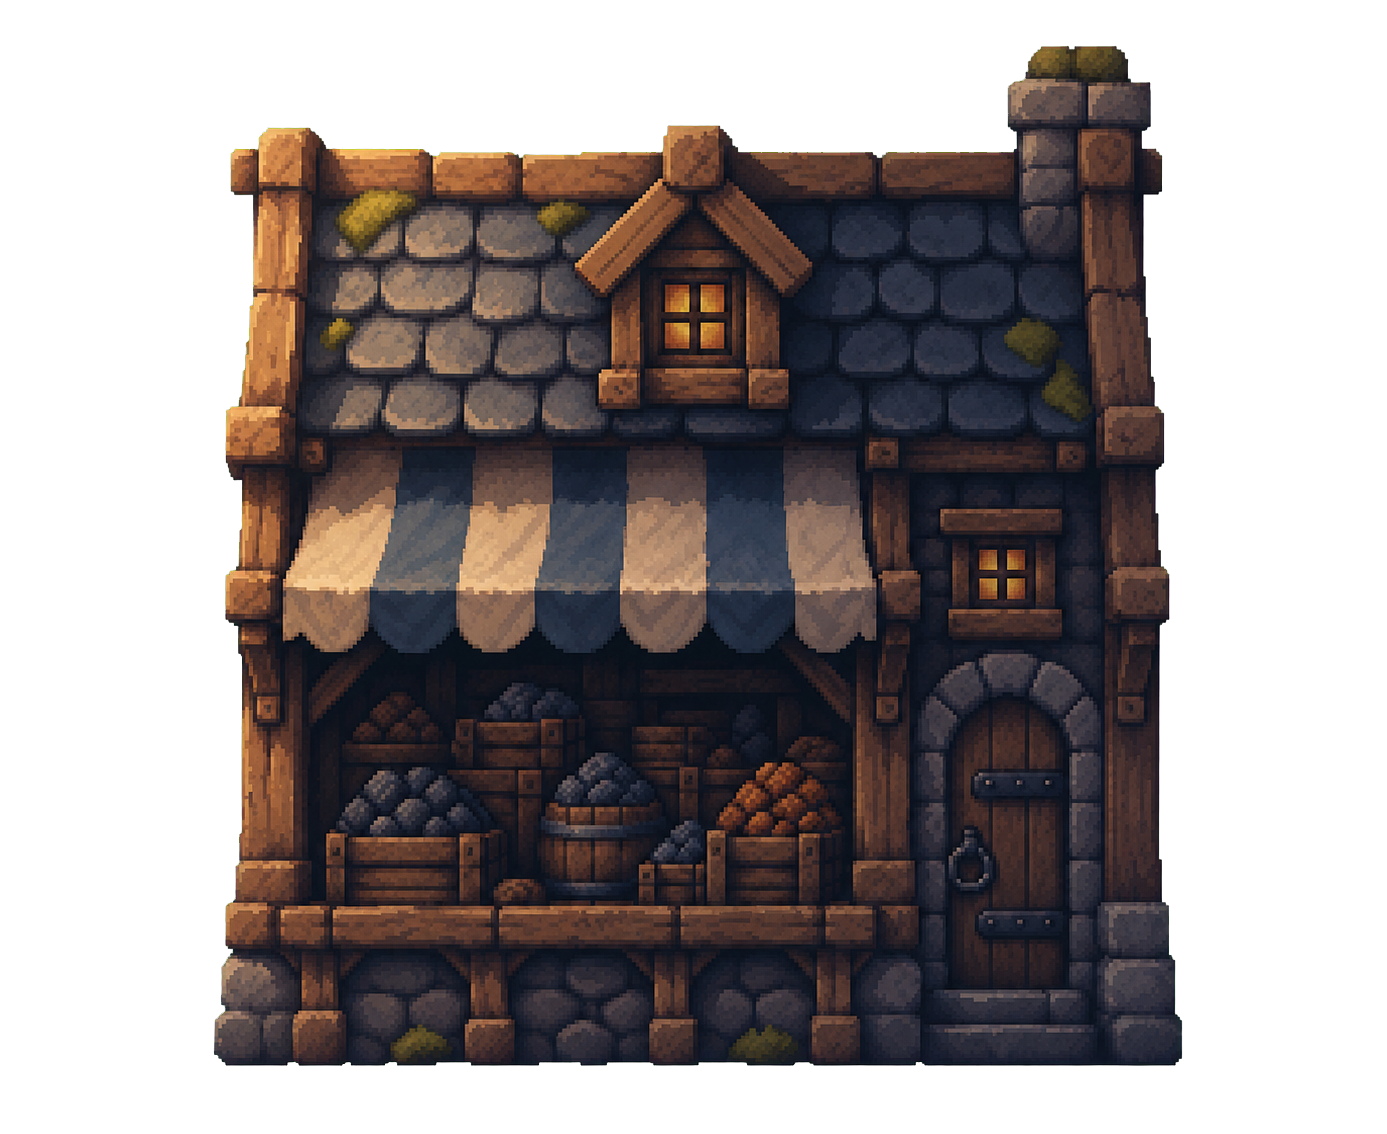
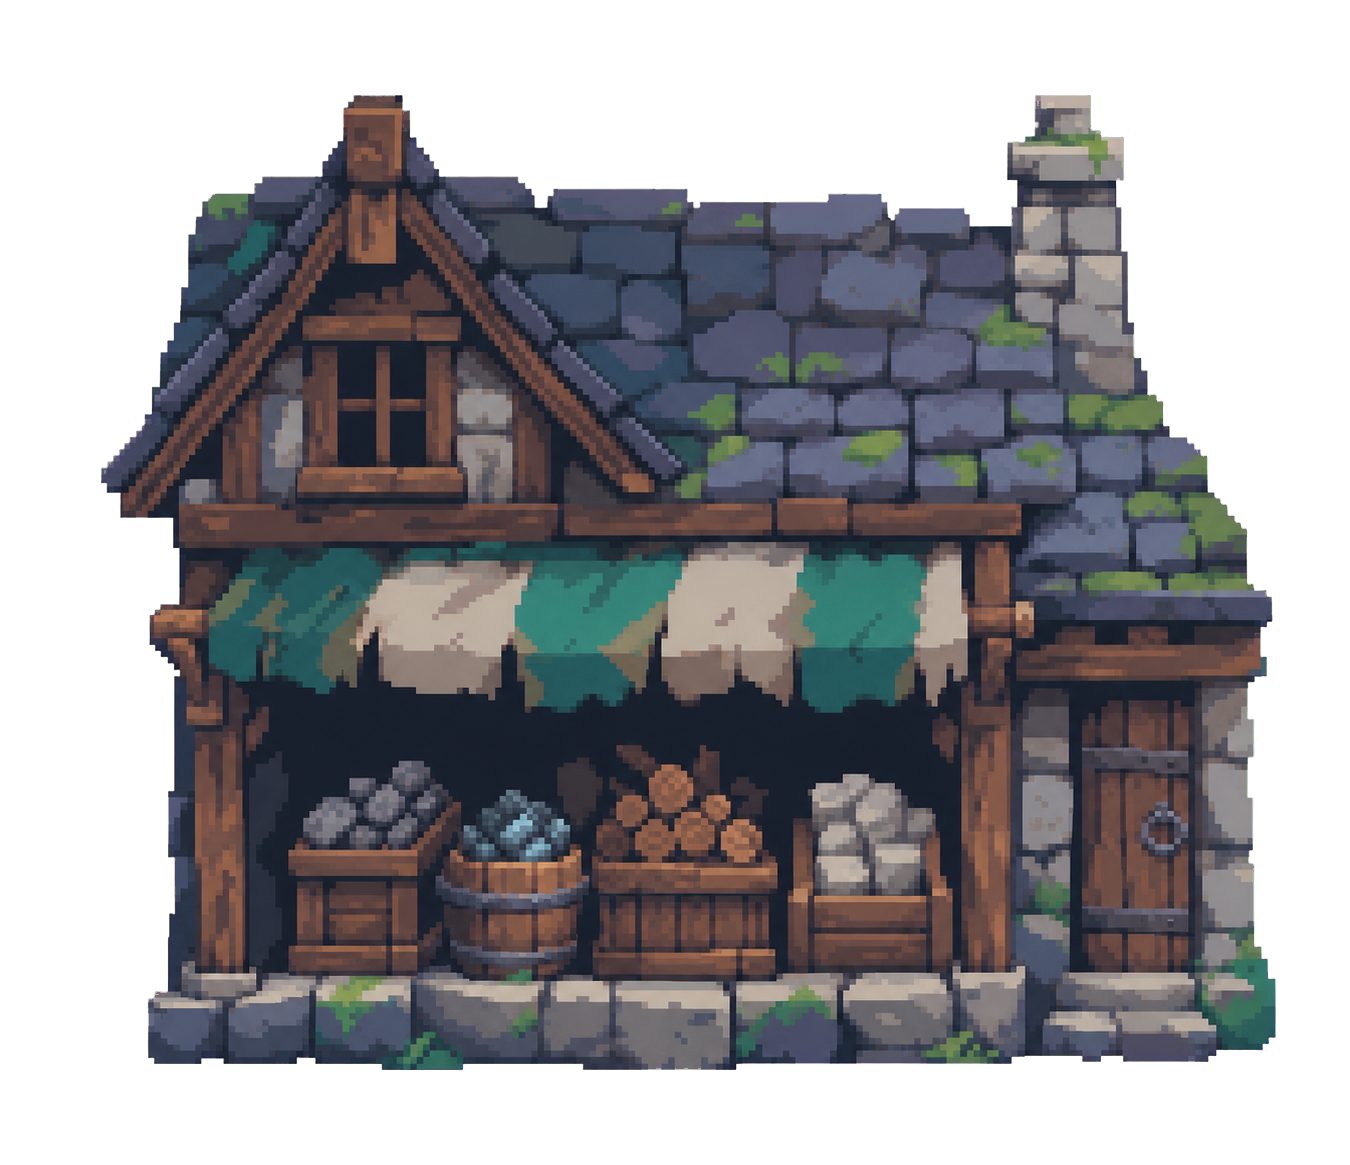
Establish neutral material yard base

diff --git a/design/figma/town/README.md b/design/figma/town/README.md
@@ -7,8 +7,9 @@
   分件素材庫。
 - `town_b2_building_landmark_review.svg`：六棟 B2 建築、不滅火炬與戰鬥傳送門
   的單頁審稿板。此檔只供逐件核准，未接入 runtime。
-- `b2_front_style_candidates/`：目前八個嚴格正面朝向、手繪光影與低 AI
-  痕跡的透明 PNG；配色可依功能調整，但共用同一筆觸與明度語言。
+- `b2_front_style_candidates/`：目前八個嚴格正面朝向、低 AI 痕跡的透明
+  PNG；材料行已改為可供 Godot 疊加手繪光罩的中性 Base，其餘物件會沿用相同
+  像素群塊、斷裂線稿與固有色規則重繪。
 - `b2_front_candidates/`：保留的正面透視基礎版，用於比對風格轉換是否改壞造型。
 - `b2_candidates/`：保留的舊 3/4 視角候選，不再作為目前審稿來源。
 - `CODEX_RESTART_HANDOFF.md`：重開 Codex 後的完整續作紀錄。
